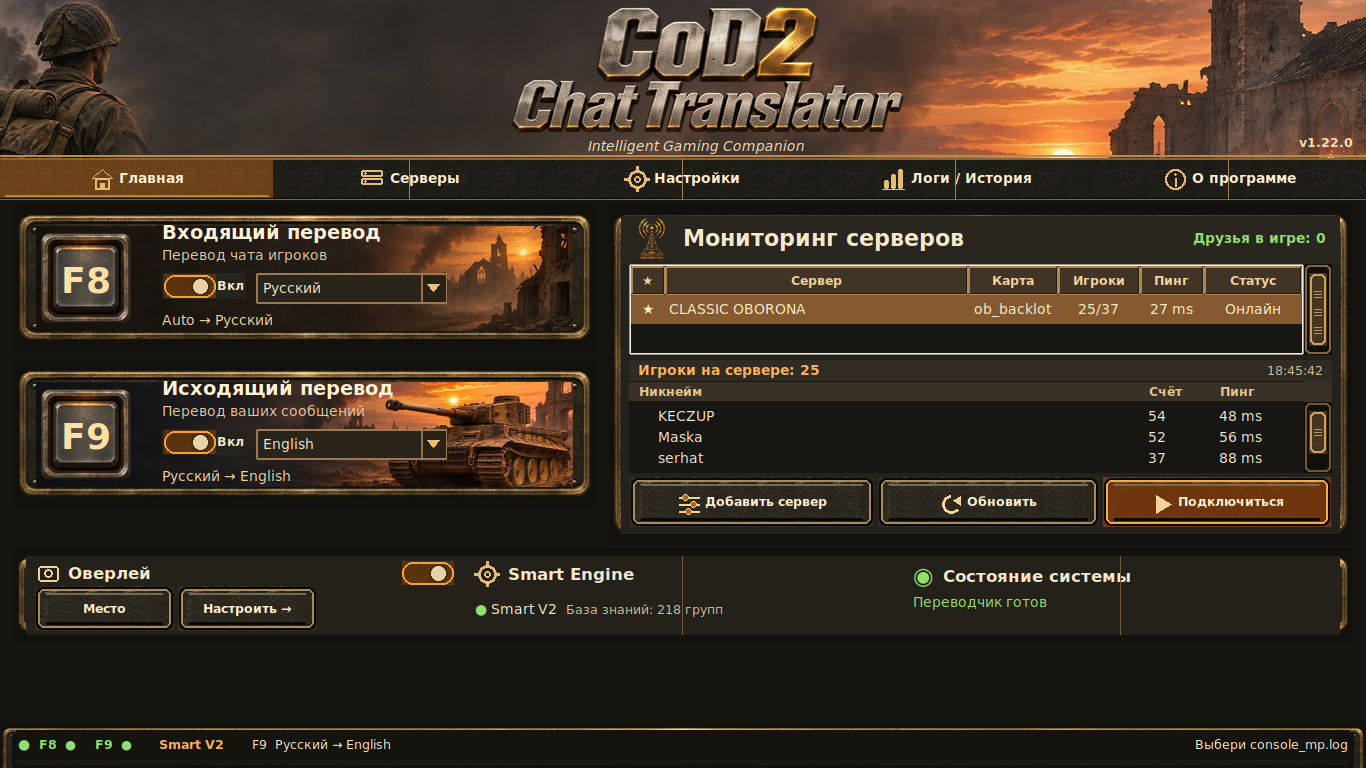
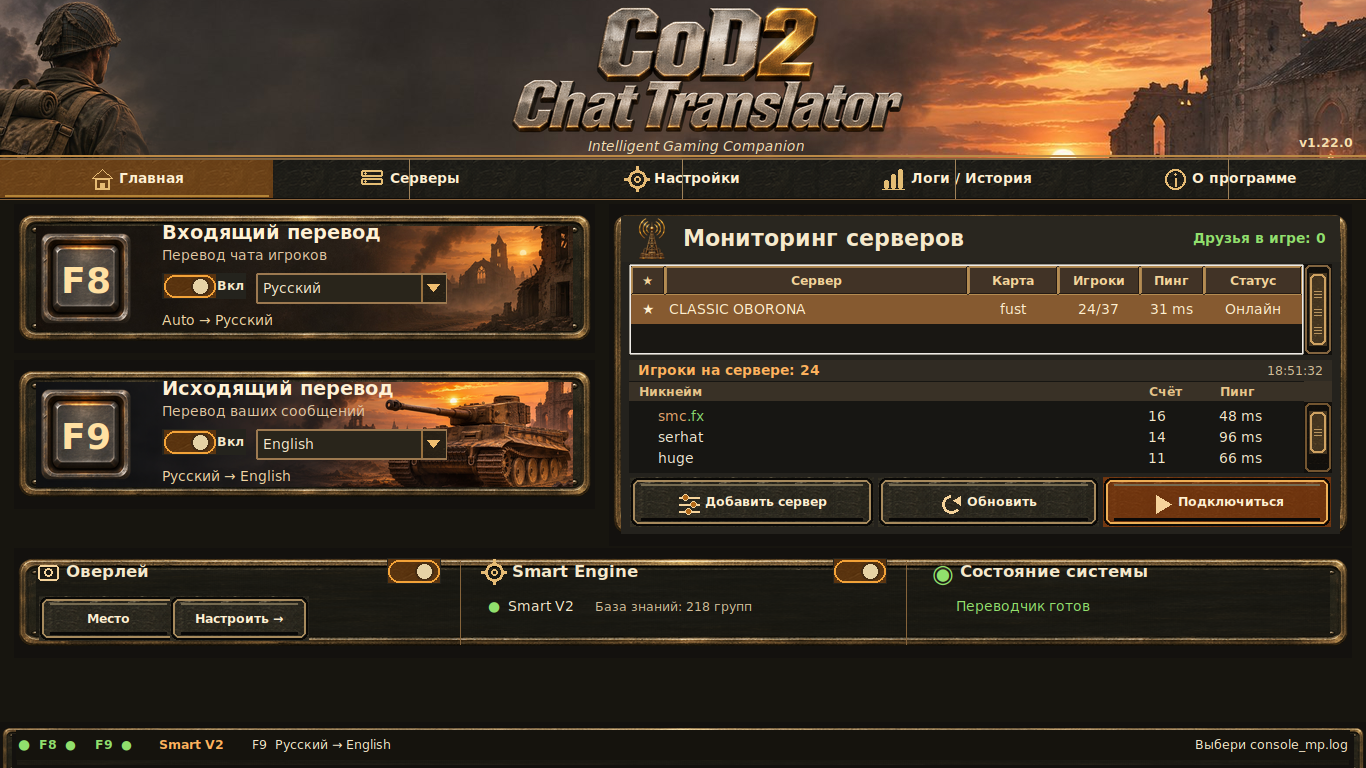
Expose textured functional system rail on Home

diff --git a/premium_home.py b/premium_home.py
@@ -29,6 +29,8 @@ class CanvasText:
         self.canvas, self.item = canvas, item
 
     def configure(self, **kwargs):
+        if "fg" in kwargs:
+            kwargs["fill"]=kwargs.pop("fg")
         self.canvas.itemconfigure(self.item, **kwargs)
 
     def cget(self, name):
@@ -205,49 +207,64 @@ class PremiumHome:
         a=self.app
         from wwii_dashboard import tactical_action, tactical_switch
         from dashboard_ui import ui_photo
-        border=MetalCanvas(self.content,height=91 if self.large_dpi else 85 if self.compact else 88)
-        border.pack(fill="x",padx=14,pady=(0,6))
-        frame=tk.Frame(border,bg="#24211B",height=69 if self.compact else 73 if self.large_dpi else 72)
-        frame.pack(fill="both",expand=True,padx=12,pady=8)
-        frame.pack_propagate(False)
-        for col in range(3):frame.columnconfigure(col,weight=1,uniform="rail")
-        cells=[tk.Frame(frame,bg="#24211B") for _ in range(3)]
-        for col,cell in enumerate(cells):
-            cell.grid(row=0,column=col,sticky="nsew",padx=9,pady=4)
-            if col:
-                tk.Frame(frame,bg="#735A3B",width=1).grid(row=0,column=col,sticky="ns")
-        overlay_head=tk.Frame(cells[0],bg="#24211B")
-        overlay_head.pack(fill="x")
-        tk.Label(overlay_head,image=ui_photo(frame,"quick_screenshot.png"),bg="#24211B").pack(side="left",padx=(0,5))
-        txt(overlay_head,local(a,"Оверлей","Оверлей","Overlay"),12,bold=True).pack(side="left")
+        rail=MetalCanvas(self.content,height=110 if self.compact else 112)
+        rail.pack(fill="x",padx=14,pady=(0,6))
+        # One textured surface carries the three sections. Only the actual
+        # controls are Tk child windows; captions and separators do not hide it.
+        overlay_icon=rail.create_image(0,0,image=ui_photo(rail,"quick_screenshot.png"),anchor="center")
+        engine_icon=rail.create_image(0,0,image=ui_photo(rail,"nav_settings.png"),anchor="center")
+        rail.create_text(0,0,text=local(a,"Оверлей","Оверлей","Overlay"),anchor="w",
+                         fill=TEXT,font=(FONT,12,"bold"),tags="overlay_title")
+        rail.create_text(0,0,text="Smart Engine",anchor="w",
+                         fill=TEXT,font=(FONT,12,"bold"),tags="engine_title")
+        rail.create_text(0,0,text="◉",anchor="w",
+                         fill=GREEN,font=(FONT,18,"bold"),tags="status_icon")
+        rail.create_text(0,0,text=local(a,"Состояние системы","Стан системи","System status"),
+                         anchor="w",fill=TEXT,font=(FONT,12,"bold"),tags="status_title")
+        separators=[rail.create_line(0,0,0,0,fill="#86643B",width=1) for _ in range(2)]
         self.overlay_var=tk.BooleanVar(value=a.overlay_hotkey_visible)
         def toggle_overlay():
             if self.overlay_var.get()!=a.overlay_hotkey_visible:
                 a.toggle_overlay_hotkey_visibility()
-        self.overlay_switch=tactical_switch(overlay_head,"",self.overlay_var,toggle_overlay)
-        self.overlay_switch.pack(side="right")
-        actions=tk.Frame(cells[0],bg="#24211B")
-        actions.pack(anchor="w")
-        a.overlay_edit_button=tactical_action(actions,local(a,"Место","Місце","Position"),a.toggle_overlay_edit)
-        a.overlay_edit_button.pack(side="left",padx=(0,4))
-        tactical_action(actions,local(a,"Настроить →","Налаштувати →","Configure →"),
-                        lambda:self.dashboard.navigate("overlay")).pack(side="left")
-        engine_head=tk.Frame(cells[1],bg="#24211B")
-        engine_head.pack(fill="x")
-        tk.Label(engine_head,image=ui_photo(frame,"nav_settings.png"),bg="#24211B").pack(side="left",padx=(0,5))
-        txt(engine_head,"Smart Engine",12,bold=True).pack(side="left")
-        self.dashboard.engine_engine_bullet=txt(cells[1],"●",10,GREEN)
-        self.dashboard.engine_engine_bullet.pack(side="left")
-        self.dashboard.engine_engine_label=txt(cells[1],"",10)
-        self.dashboard.engine_engine_label.pack(side="left")
-        self.dashboard.engine_pack_label=txt(cells[1],"",9,MUTED)
-        self.dashboard.engine_pack_label.pack(side="left",padx=5)
-        status_head=tk.Frame(cells[2],bg="#24211B")
-        status_head.pack(fill="x")
-        txt(status_head,"◉",17,GREEN,bold=True).pack(side="left",padx=(0,5))
-        txt(status_head,local(a,"Состояние системы","Стан системи","System status"),12,bold=True).pack(side="left")
-        self.system_status=txt(cells[2],"",10,GREEN)
-        self.system_status.pack(anchor="w")
+        self.overlay_switch=tactical_switch(rail,"",self.overlay_var,toggle_overlay)
+        overlay_switch=rail.create_window(0,0,window=self.overlay_switch,anchor="nw")
+        a.overlay_edit_button=tactical_action(
+            rail,local(a,"Место","Місце","Position"),a.toggle_overlay_edit)
+        overlay_edit=rail.create_window(0,0,window=a.overlay_edit_button,anchor="nw")
+        config=tactical_action(rail,local(a,"Настроить →","Налаштувати →","Configure →"),
+                               lambda:self.dashboard.navigate("overlay"))
+        overlay_config=rail.create_window(0,0,window=config,anchor="nw")
+        engine_switch=tactical_switch(rail,"",a.smart_engine_var,a._persist_settings)
+        engine_control=rail.create_window(0,0,window=engine_switch,anchor="nw")
+        self.dashboard.engine_engine_bullet=CanvasText(rail,rail.create_text(
+            0,0,text="●",anchor="w",fill=GREEN,font=(FONT,10)))
+        self.dashboard.engine_engine_label=CanvasText(rail,rail.create_text(
+            0,0,text="",anchor="w",fill=TEXT,font=(FONT,10)))
+        self.dashboard.engine_pack_label=CanvasText(rail,rail.create_text(
+            0,0,text="",anchor="w",fill=MUTED,font=(FONT,9)))
+        self.system_status=CanvasText(rail,rail.create_text(
+            0,0,text="",anchor="w",fill=GREEN,font=(FONT,10)))
+        def layout(event):
+            width=event.width
+            third=width/3
+            for index,item in enumerate(separators,1):
+                x=round(third*index)
+                rail.coords(item,x,13,x,event.height-13)
+            rail.coords(overlay_icon,34,24)
+            rail.coords("overlay_title",52,23)
+            rail.coords(overlay_switch,round(third-73),10)
+            rail.coords(overlay_edit,25,48)
+            rail.coords(overlay_config,156,48)
+            rail.coords(engine_icon,round(third+34),24)
+            rail.coords("engine_title",round(third+52),23)
+            rail.coords(engine_control,round(third*2-73),10)
+            rail.coords(self.dashboard.engine_engine_bullet.item,round(third+28),58)
+            rail.coords(self.dashboard.engine_engine_label.item,round(third+48),58)
+            rail.coords(self.dashboard.engine_pack_label.item,round(third+135),58)
+            rail.coords("status_icon",round(third*2+26),25)
+            rail.coords("status_title",round(third*2+54),23)
+            rail.coords(self.system_status.item,round(third*2+50),58)
+        rail.bind("<Configure>",layout,add="+")
 
     def _hide_tip(self):
         tip=getattr(self,"_tip",None)
